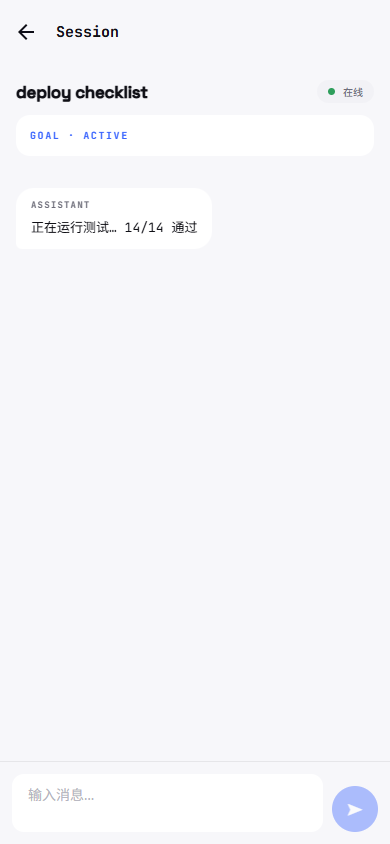
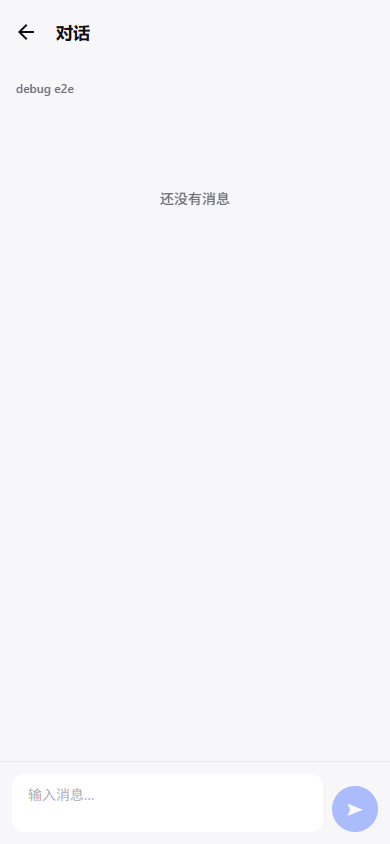
docs: refresh screenshots and record UI simplification phase

diff --git a/PROGRESS.md b/PROGRESS.md
@@ -1,5 +1,16 @@
 # PROGRESS
 
+## Phase 8：UI 精简美化（DeepSeek 手机版风格，完成）
+- 连接页：首屏只保留品牌、状态、主机/端口/可选配对码与主连接按钮；「高级」折叠 token；历史主机默认折叠；自动发现/扫码为次级文字入口。
+- 引导页：3 步改为 1 屏（鲸鱼 + harness remote + 一句话 + 开始使用）。
+- 会话页：标题「会话」+ 状态；搜索默认收起；pending 改轻量文字行；行只留标题/最近消息/时间，workspace 仅在分组头；上下文仅 ≥70 显示。
+- 聊天页：移除 GoalCard 大卡与状态眉标，顶部小字会话标题 + goal 小 pill；输入区只保留输入框 + 圆形发送；暂停/恢复仅流式时显示为小文字按钮。
+- 审批页：中文标签，去粗色条，底部只保留批准/拒绝主按钮，跳过提问弱化。
+- 设置页：合并为一张主设置卡 + 关于分组，去掉英文 mono 眉标。
+- 导航标题：会话/对话/请求/设置，系统字体、无阴影。
+- Android 真机（Expo Go，MXW-AN00 Android 10）实测：连接页加载、连接到 mock-harness、会话列表显示 2 个 mock session（截图 `.shots/android-main.png` / `.shots/android-sessions.png`）。
+- 文档截图：docs/screenshots/connect.png、sessions.png、chat.png 已同步为新 UI。
+
 ## Phase 7：M3.7 发布闸门前置（无真机部分完成）
 - CI 升级 Node 24（`.github/workflows/ci.yml`）。
 - `pnpm audit --prod`：仍为 3 个 Expo 工具链传递漏洞（image-size ≤2.0.2 ×2 high、uuid <11.1.1 ×1 moderate），均非运行时；记录在 SECURITY.md 发布检查清单，等待 Expo SDK 上游升级。
